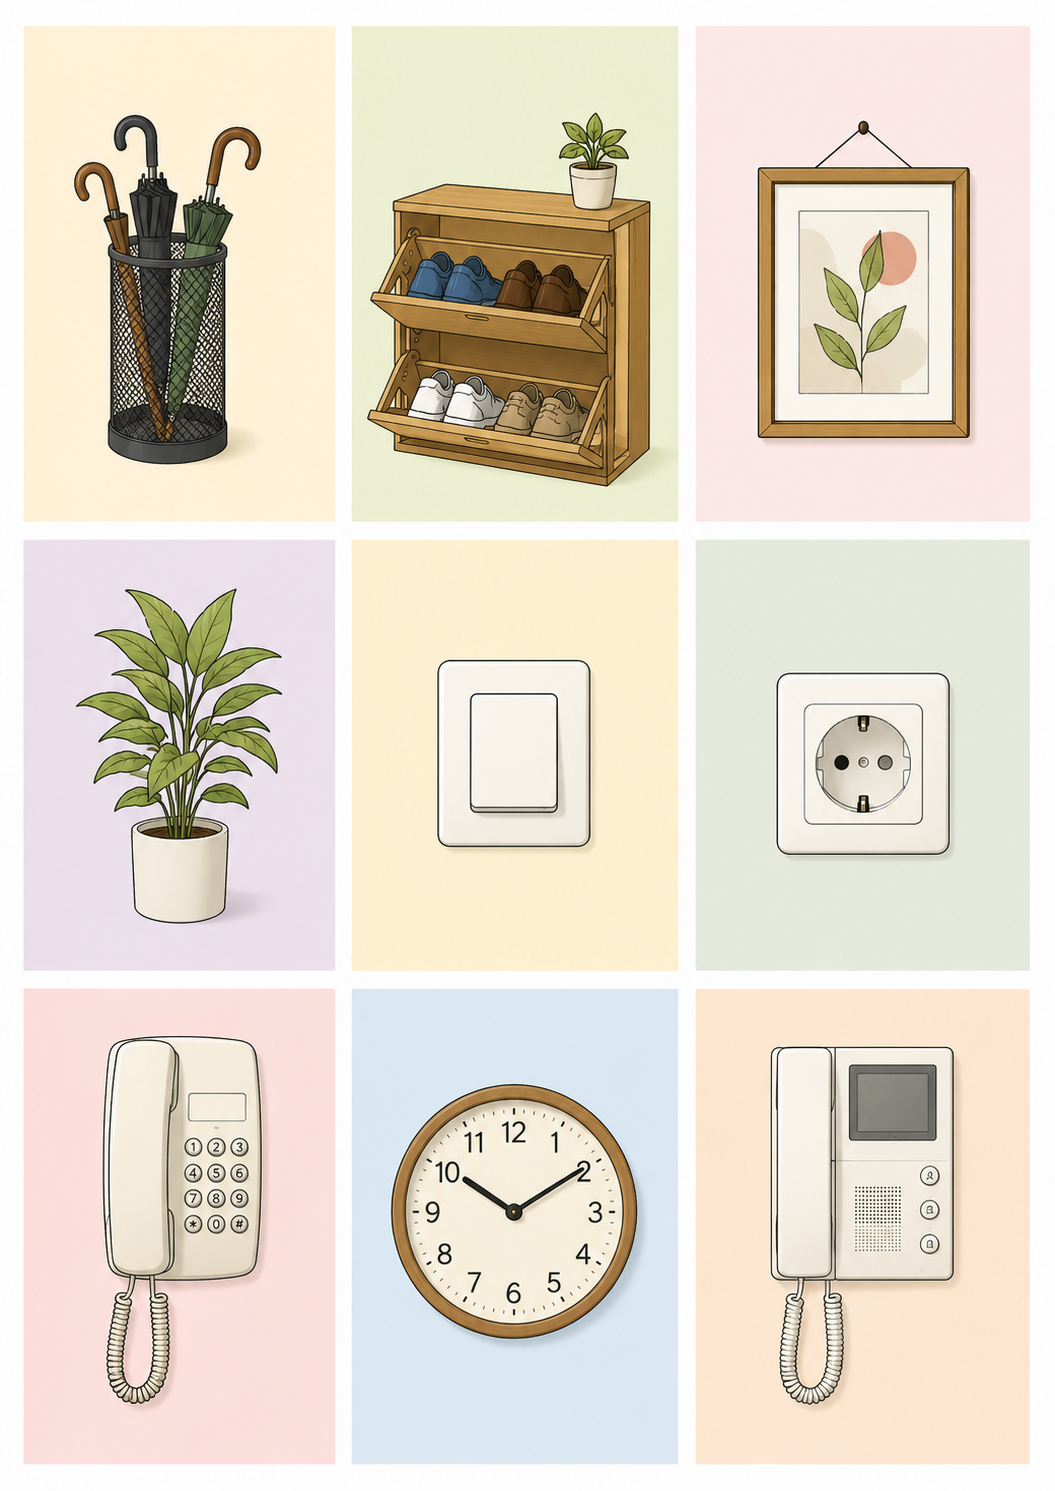
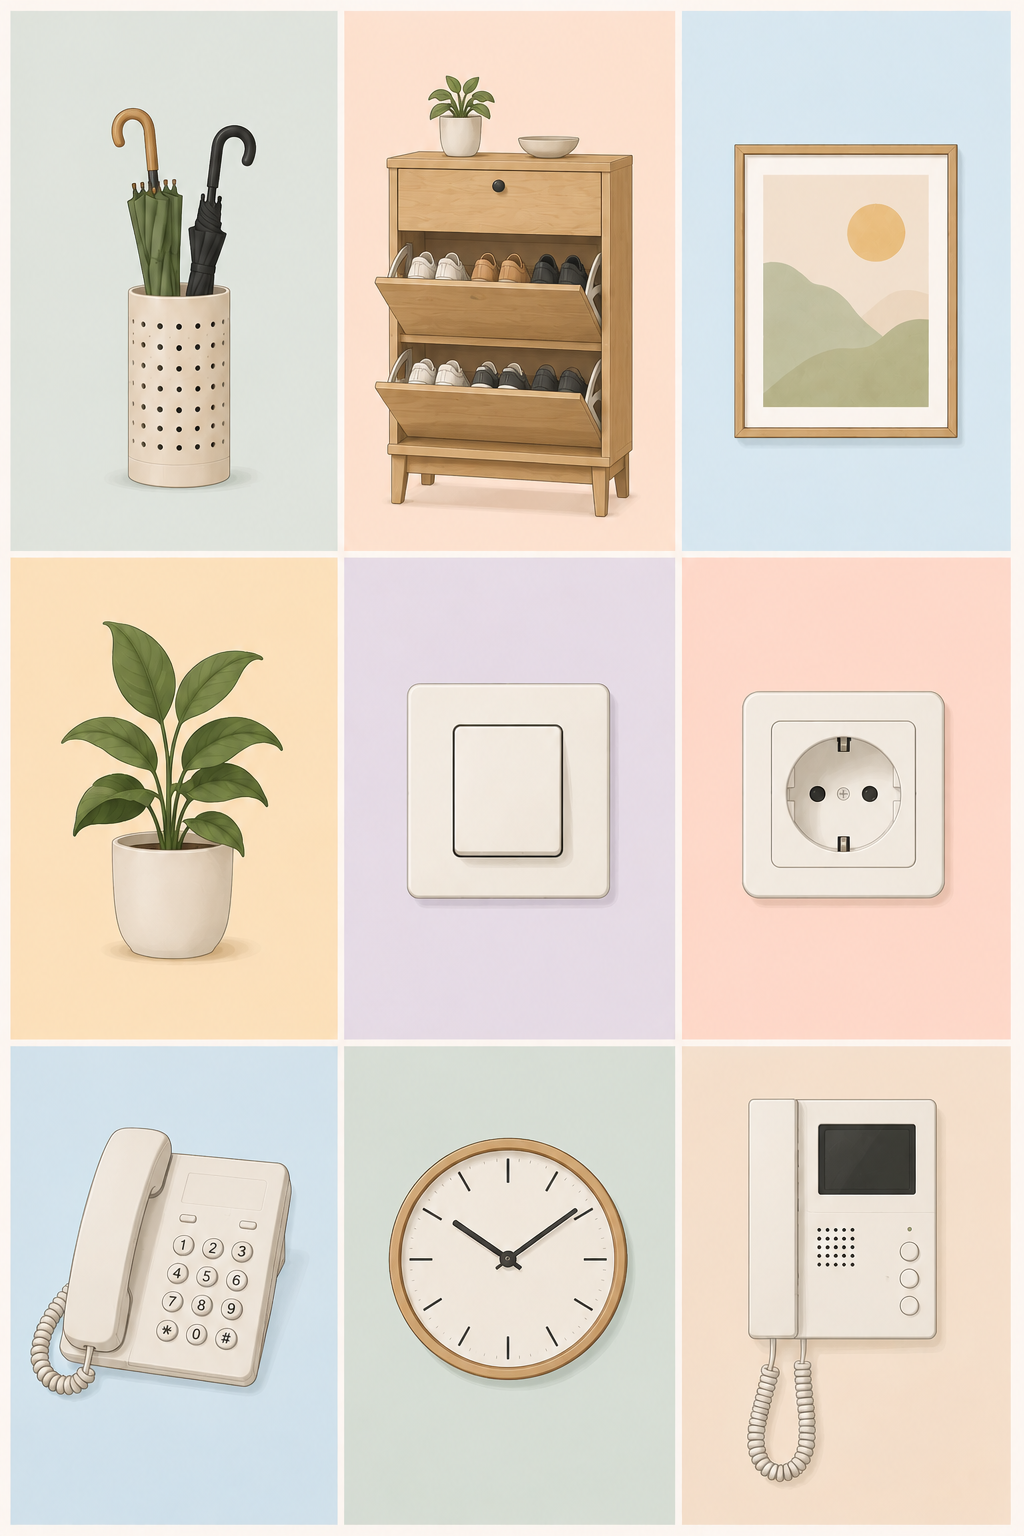
Passe Hotspots im Flur an

diff --git a/bilder-daten.js b/bilder-daten.js
@@ -1207,30 +1207,30 @@ window.APP_FOLDERS = {
         title: "El pasillo – Bild 2",
         file: "pasillo2.png",
         hotspots: [
-          { wort: { es: "la mirilla", de: "der Türspion", en: "the peephole", ru: "глазок" }, clickX: 16.7, clickY: 22.8, labelX: 24, labelY: 9.5, areaW: 30, areaH: 28 },
-          { wort: { es: "el suelo", de: "der Fußboden", en: "the floor", ru: "пол" }, clickX: 50, clickY: 22.8, labelX: 50, labelY: 9.5, areaW: 30, areaH: 28 },
-          { wort: { es: "el espejo", de: "der Spiegel", en: "the mirror", ru: "зеркало" }, clickX: 83.3, clickY: 22.8, labelX: 76, labelY: 9.5, areaW: 30, areaH: 28 },
-          { wort: { es: "el perchero", de: "die Garderobe", en: "the coat rack", ru: "вешалка" }, clickX: 16.7, clickY: 50, labelX: 24, labelY: 42, areaW: 30, areaH: 28 },
-          { wort: { es: "la alfombra", de: "der Läufer", en: "the runner rug", ru: "дорожка" }, clickX: 50, clickY: 50, labelX: 50, labelY: 42, areaW: 30, areaH: 28 },
-          { wort: { es: "la cómoda", de: "die Kommode", en: "the chest of drawers", ru: "комод" }, clickX: 83.3, clickY: 50, labelX: 76, labelY: 42, areaW: 30, areaH: 28 },
-          { wort: { es: "el cuelgallaves", de: "das Schlüsselbrett", en: "the key holder", ru: "ключница" }, clickX: 16.7, clickY: 83.3, labelX: 24, labelY: 75, areaW: 30, areaH: 28 },
-          { wort: { es: "las llaves", de: "die Schlüssel (Pl.)", en: "the keys", ru: "ключи" }, clickX: 50, clickY: 83.3, labelX: 50, labelY: 75, areaW: 30, areaH: 28 },
-          { wort: { es: "el felpudo", de: "die Fußmatte", en: "the doormat", ru: "коврик у двери" }, clickX: 83.3, clickY: 83.3, labelX: 76, labelY: 75, areaW: 30, areaH: 28 }
+          { wort: { es: "la mirilla", de: "der Türspion", en: "the peephole", ru: "глазок" }, clickX: 17.2, clickY: 17.8, labelX: 24, labelY: 9.5, areaW: 30.6, areaH: 32.4 },
+          { wort: { es: "el suelo", de: "der Fußboden", en: "the floor", ru: "пол" }, clickX: 49.1, clickY: 17.8, labelX: 50, labelY: 9.5, areaW: 30.5, areaH: 32.4 },
+          { wort: { es: "el espejo", de: "der Spiegel", en: "the mirror", ru: "зеркало" }, clickX: 81.9, clickY: 17.8, labelX: 76, labelY: 9.5, areaW: 32.0, areaH: 32.4 },
+          { wort: { es: "el perchero", de: "die Garderobe", en: "the coat rack", ru: "вешалка" }, clickX: 17.2, clickY: 52.1, labelX: 24, labelY: 42, areaW: 30.6, areaH: 33.8 },
+          { wort: { es: "la alfombra", de: "der Läufer", en: "the runner rug", ru: "дорожка" }, clickX: 49.1, clickY: 52.1, labelX: 50, labelY: 42, areaW: 30.5, areaH: 33.8 },
+          { wort: { es: "la cómoda", de: "die Kommode", en: "the chest of drawers", ru: "комод" }, clickX: 81.9, clickY: 52.1, labelX: 76, labelY: 42, areaW: 32.0, areaH: 33.8 },
+          { wort: { es: "el cuelgallaves", de: "das Schlüsselbrett", en: "the key holder", ru: "ключница" }, clickX: 17.2, clickY: 84.3, labelX: 24, labelY: 75, areaW: 30.6, areaH: 28.4 },
+          { wort: { es: "las llaves", de: "die Schlüssel (Pl.)", en: "the keys", ru: "ключи" }, clickX: 49.1, clickY: 84.3, labelX: 50, labelY: 75, areaW: 30.5, areaH: 28.4 },
+          { wort: { es: "el felpudo", de: "die Fußmatte", en: "the doormat", ru: "коврик у двери" }, clickX: 81.9, clickY: 84.3, labelX: 76, labelY: 75, areaW: 32.0, areaH: 28.4 }
         ]
       },
       {
         title: "El pasillo – Bild 3",
         file: "pasillo3.png",
         hotspots: [
-          { wort: { es: "el paragüero", de: "der Schirmständer", en: "the umbrella stand", ru: "подставка для зонтов" }, clickX: 16.7, clickY: 22.8, labelX: 24, labelY: 9.5, areaW: 30, areaH: 28 },
-          { wort: { es: "el zapatero", de: "das Schuhregal", en: "the shoe rack", ru: "обувная полка" }, clickX: 50, clickY: 22.8, labelX: 50, labelY: 9.5, areaW: 30, areaH: 28 },
-          { wort: { es: "el cuadro", de: "das Bild", en: "the picture", ru: "картина" }, clickX: 83.3, clickY: 22.8, labelX: 76, labelY: 9.5, areaW: 30, areaH: 28 },
-          { wort: { es: "la planta", de: "die Pflanze", en: "the plant", ru: "растение" }, clickX: 16.7, clickY: 50, labelX: 24, labelY: 42, areaW: 30, areaH: 28 },
-          { wort: { es: "el interruptor", de: "der Lichtschalter", en: "the light switch", ru: "выключатель" }, clickX: 50, clickY: 50, labelX: 50, labelY: 42, areaW: 30, areaH: 28 },
-          { wort: { es: "el enchufe", de: "die Steckdose", en: "the socket", ru: "розетка" }, clickX: 83.3, clickY: 50, labelX: 76, labelY: 42, areaW: 30, areaH: 28 },
-          { wort: { es: "el teléfono fijo", de: "das Festnetztelefon", en: "the landline phone", ru: "стационарный телефон" }, clickX: 16.7, clickY: 83.3, labelX: 24, labelY: 75, areaW: 30, areaH: 28 },
-          { wort: { es: "el reloj de pared", de: "die Wanduhr", en: "the wall clock", ru: "настенные часы" }, clickX: 50, clickY: 83.3, labelX: 50, labelY: 75, areaW: 30, areaH: 28 },
-          { wort: { es: "el portero automático", de: "die Gegensprechanlage", en: "the intercom", ru: "домофон" }, clickX: 83.3, clickY: 83.3, labelX: 76, labelY: 75, areaW: 30, areaH: 28 }
+          { wort: { es: "el paragüero", de: "der Schirmständer", en: "the umbrella stand", ru: "подставка для зонтов" }, clickX: 16.9, clickY: 18.2, labelX: 24, labelY: 9.5, areaW: 32.0, areaH: 35.2 },
+          { wort: { es: "el zapatero", de: "das Schuhregal", en: "the shoe rack", ru: "обувная полка" }, clickX: 49.8, clickY: 18.2, labelX: 50, labelY: 9.5, areaW: 32.4, areaH: 35.2 },
+          { wort: { es: "el cuadro", de: "das Bild", en: "the picture", ru: "картина" }, clickX: 82.6, clickY: 18.2, labelX: 76, labelY: 9.5, areaW: 32.2, areaH: 35.2 },
+          { wort: { es: "la planta", de: "die Pflanze", en: "the plant", ru: "растение" }, clickX: 16.9, clickY: 52.0, labelX: 24, labelY: 42, areaW: 32.0, areaH: 31.4 },
+          { wort: { es: "el interruptor", de: "der Lichtschalter", en: "the light switch", ru: "выключатель" }, clickX: 49.8, clickY: 52.0, labelX: 50, labelY: 42, areaW: 32.4, areaH: 31.4 },
+          { wort: { es: "el enchufe", de: "die Steckdose", en: "the socket", ru: "розетка" }, clickX: 82.6, clickY: 52.0, labelX: 76, labelY: 42, areaW: 32.2, areaH: 31.4 },
+          { wort: { es: "el teléfono fijo", de: "das Festnetztelefon", en: "the landline phone", ru: "стационарный телефон" }, clickX: 16.9, clickY: 83.7, labelX: 24, labelY: 75, areaW: 32.0, areaH: 31.2 },
+          { wort: { es: "el reloj de pared", de: "die Wanduhr", en: "the wall clock", ru: "настенные часы" }, clickX: 49.8, clickY: 83.7, labelX: 50, labelY: 75, areaW: 32.4, areaH: 31.2 },
+          { wort: { es: "el portero automático", de: "die Gegensprechanlage", en: "the intercom", ru: "домофон" }, clickX: 82.6, clickY: 83.7, labelX: 76, labelY: 75, areaW: 32.2, areaH: 31.2 }
         ]
       }
     ]
